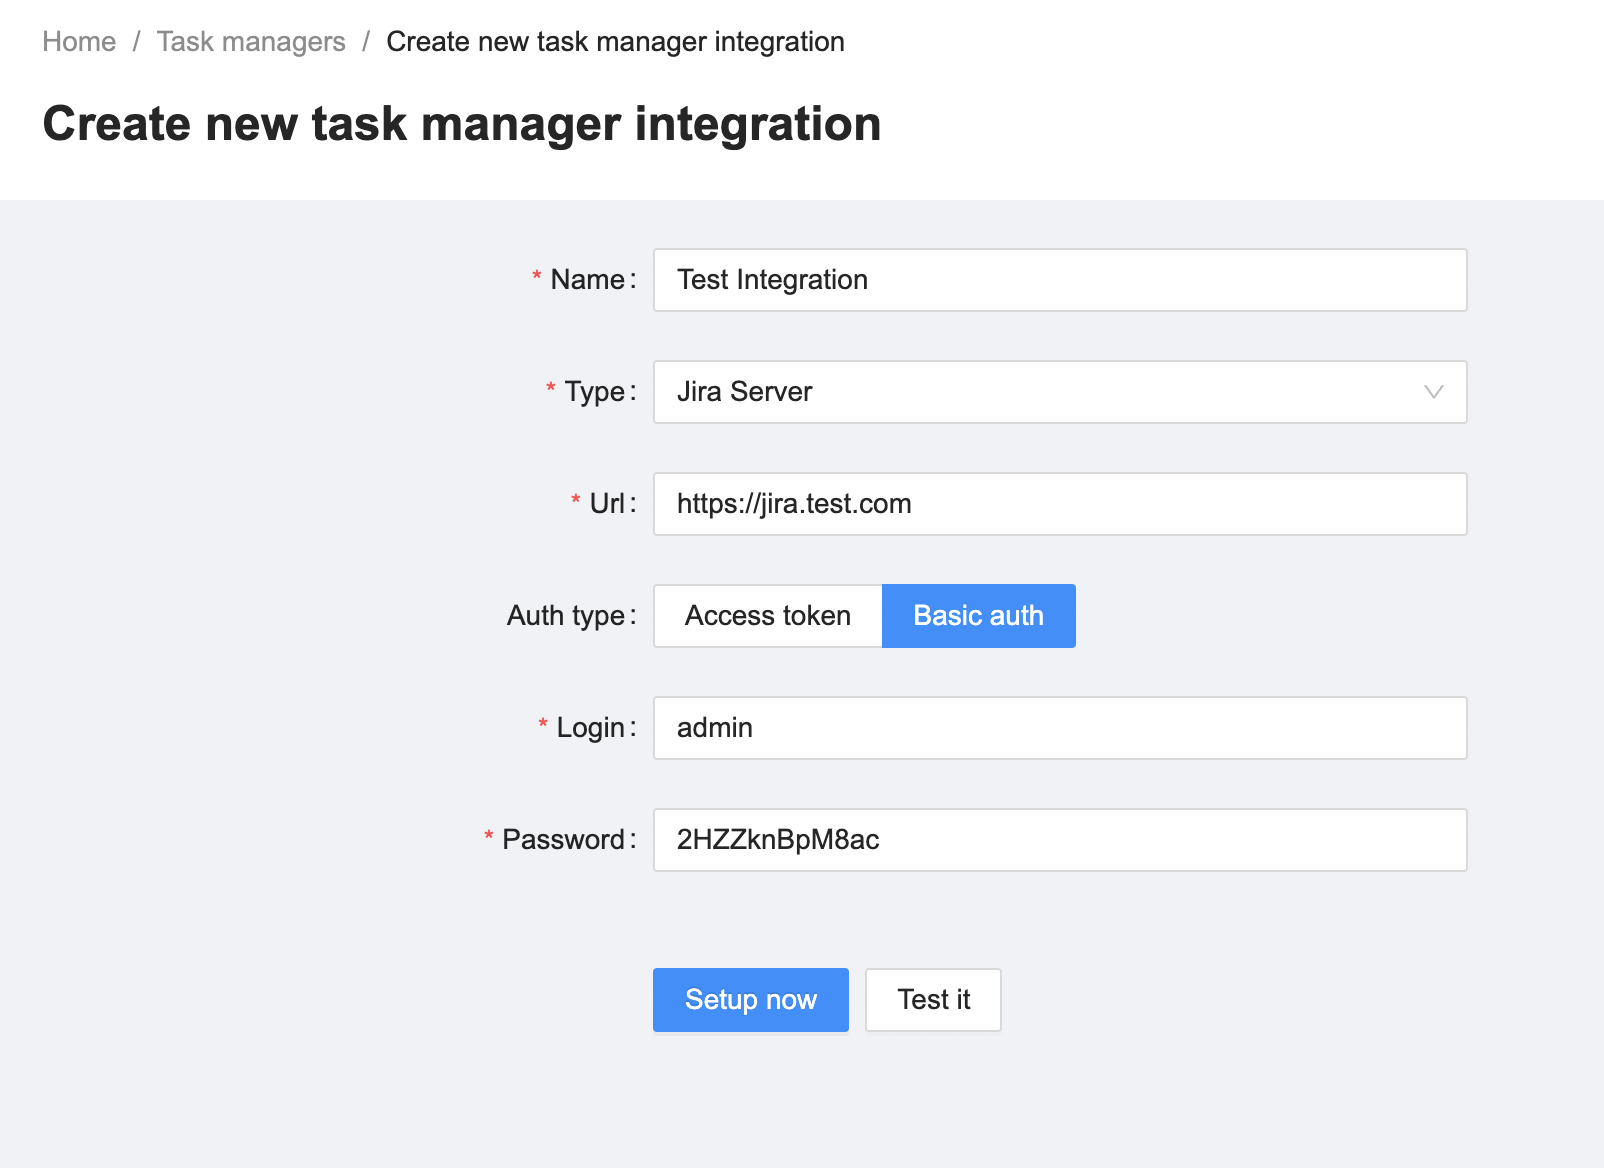
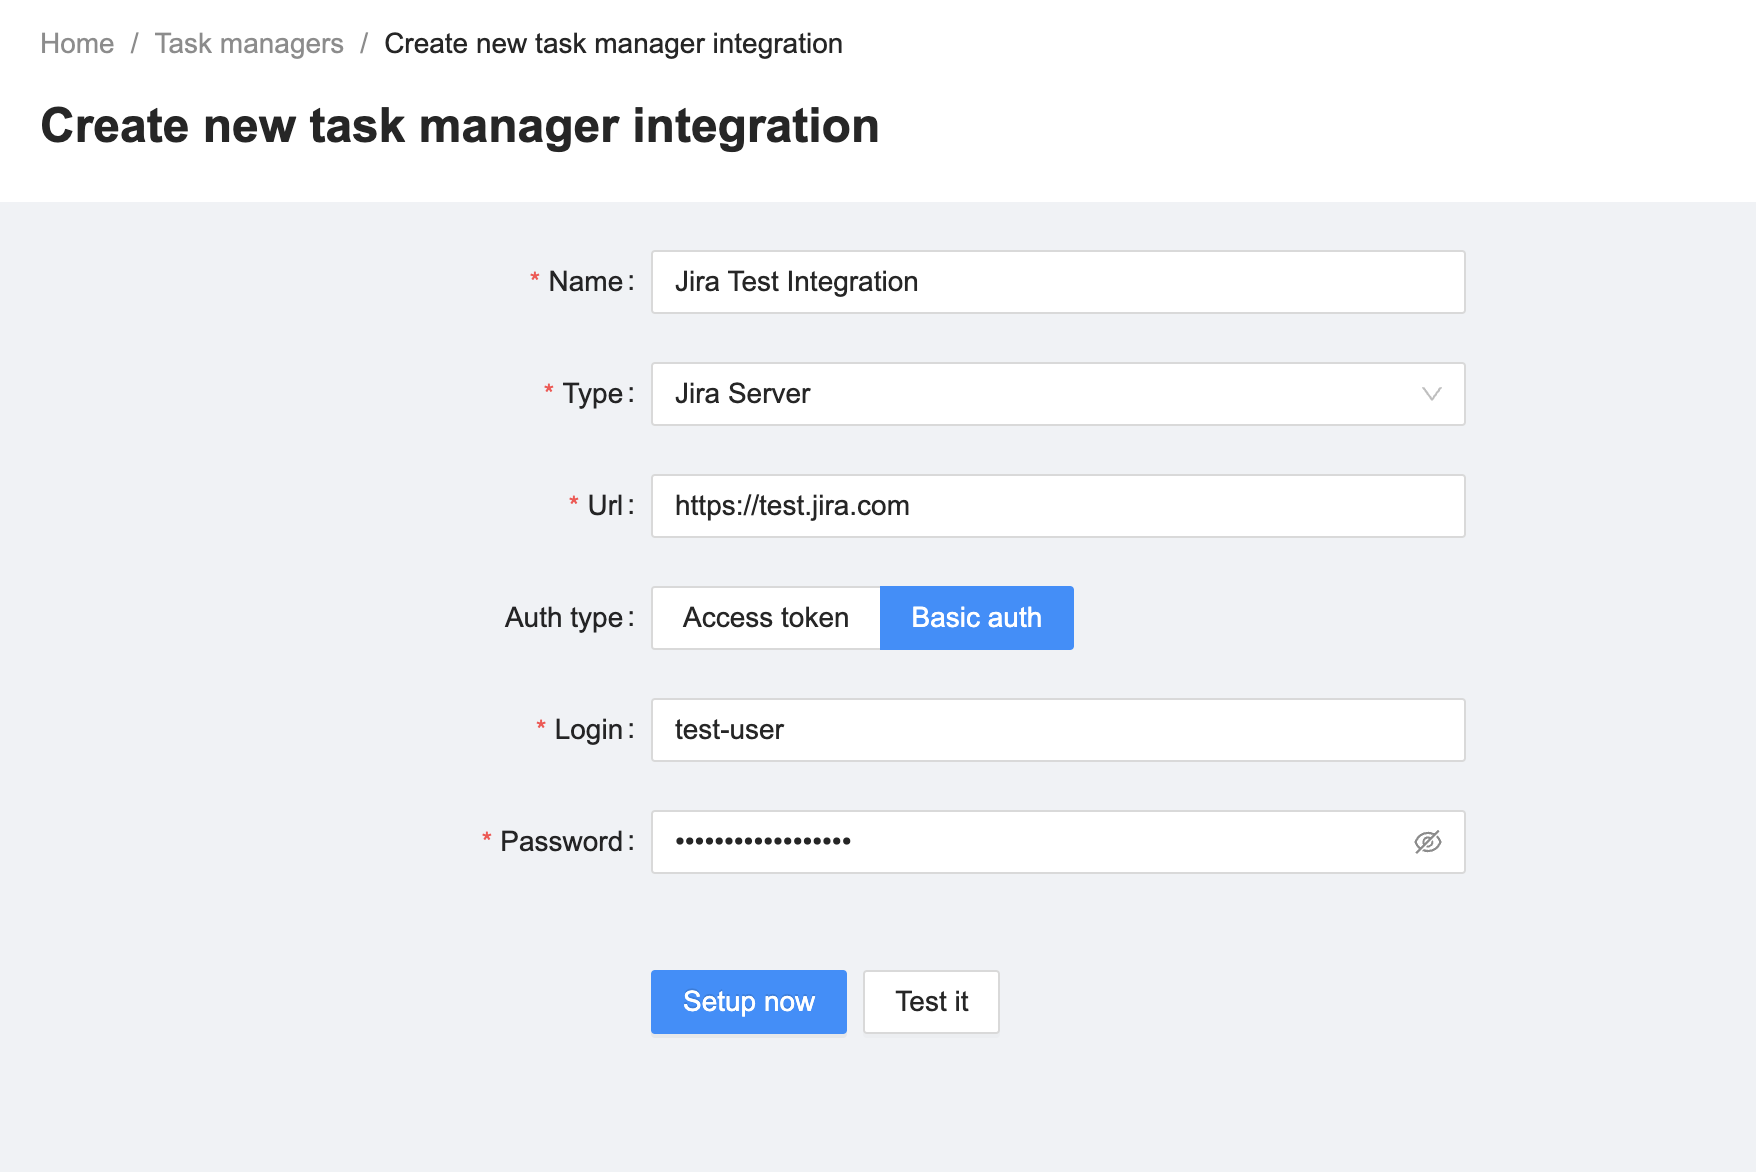
unified email and jira integration into one notifications section

diff --git a/docs/on-premise/how-to/notifications.md b/docs/on-premise/how-to/notifications.md
@@ -7,23 +7,40 @@ hide:
 
 Для каждой политики можно настроить дополнительные уведомления о срабатывании, помимо просмотра результатов в разделе `Policy Alerts`. На данный момент доступно два способа оповещения: через **email** и через таск-менеджер **Jira**.
 
-## Уведомления через Email
+## Уведомления через email
 
-Для уведомления через Email необходимо предварительно [настроить почтовый сервер](/on-premise/how-to/email-settings/) в разделе `Settings -> Email`.
+Отправка email оповещений осуществляется через интеграцию по протоколу SMTP.
 
-После настройки почтового сервера в разделе `Actions` на странице политики можно добавить email, на который будет осуществляться рассылка писем с результатами работы политики.
+Для отправки уведомлений через email необходимо предварительно настроить почтовый сервер в разделе `Settings -> Email`. Для этого нужно заполнить все обязательные параметры и активировать флаг **Is active**.
+
+Проверить правильность конфигурации можно по кнопке **Test it**.
+
+![CodeScoring email settings example](/assets/img/email-settings.png)
+
+После настройки почтового сервера в разделе `Actions` на странице политики можно добавить email адрес, на который будет осуществляться рассылка писем с результатами работы политики.
 
 ![Add email](/assets/img/actions-email.png)
 
-Письмо с результатами работы политики отправляется **по завершении сканирования проекта**. В письме содержится список всех политик, для которых были настроены уведомления и которые сработали как минимум один раз. Письмо содержит следующую информацию о сработавших политиках:
+Письмо с результатами работы политики отправляется **по завершении сканирования проекта или контейнерного образа**. В письме содержится список всех политик, для которых были настроены уведомления и которые сработали как минимум один раз, а также следующая информация о данных политиках:
 
-- Policy name — название сработавшей политики;
-- Blocker — признак блокирующей политики;
-- Dependency  — название компонента;
-- Vulnerability — идентификатор уязвимости.
+- **Policy name** — название сработавшей политики;
+- **Blocker** — признак блокирующей политики;
+- **Dependency**  — название компонента;
+- **Vulnerability** — идентификатор уязвимости.
 
 ## Создание задач в Jira
 
-Для создания задач через Jira необходимо настроить интеграцию с таск-менеджером в разделе `Settings -> Task managers`.
+CodeScoring поддерживает интеграцию с таск-менеджером Jira для формирования задач по сработавшим политикам. Настройка интеграции происходит в разделе `Settings -> Task managers`.
+
+Для создания новой интеграции используется форма по кнопке **Setup new**.
+
+- **Name** - название интеграции;
+- **Type** - тип таск-менеджера (по умолчанию – Jira Server);
+- **URL** - адрес, по которому доступен таск-менеджер;
+- **Auth type** - тип аутентификации (через access token или логин и пароль).
+
+После заполнения полей можно проверить соединение с сервером по кнопке **Test it**, или завершить создание по кнопке **Setup now**.
+
+![CodeScoring Jira settings example](/assets/img/jira-settings.png)
 
 После настройки интеграции в разделе `Actions` на странице политики можно добавить сервер Jira, на котором будет создаваться задача с результатами работы политики.
